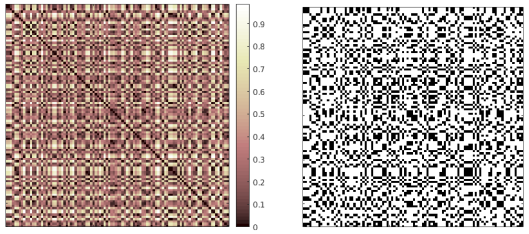
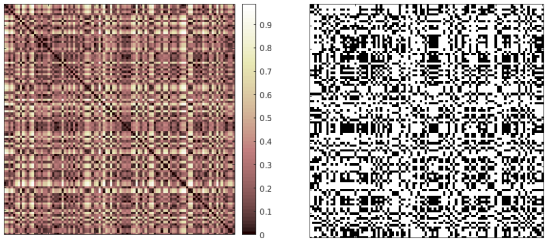
Updates README.md

diff --git a/main.m b/main.m
@@ -5,19 +5,50 @@
 %   plotrp.m
 %
 
-%% Distance matrix and recurrence plot for one time series
+%% Distance matrix and recurrence plot for a sinusoidal time series
+close all
+clear
+clc
+
+X = sin(2*pi*0.05*(1:100));
+
+DMofX = distmatrix(2, 3, 'L1', X);
+RPofX = recplot(2, 3, 0.2, 'L1', X);
+
+figure()
+plot(X)
+ylabel("x(t)")
+xlabel("t")
+xlim([1, 100])
+set(gca, "XTick", [1, 10:10:100])
+set(gcf, "Position", [400, 250, 600, 120]);
+
+figure()
+plotrp(DMofX)
+
+figure()
+plotrp(RPofX)
+
+%% Distance matrix and recurrence plot for a random time series
 close all
 clear
 clc
 
 X = rand(100, 1);
 
-DMofX = distmatrix(1, 1, 'Linf', X);
-RPofX = recplot(1, 1, 0.2, 'Linf', X);
+DMofX = distmatrix(1, 1, 'L1', X);
+RPofX = recplot(1, 1, 0.2, 'L1', X);
+
+figure()
+plot(X)
+ylabel("x(t)")
+xlabel("t")
+xlim([1, 100])
+set(gca, "XTick", [1, 10:10:100])
+set(gcf, "Position", [400, 250, 600, 120]);
 
 figure()
 plotrp(DMofX)
-
 
 figure()
 plotrp(RPofX)

diff --git a/README.md b/README.md
@@ -1,7 +1,23 @@
 # Recurrence Analysis
 
-The files in this repository can be used to perform recurrence analysis of time series in MATLAB. With them you can generate the distance matrix (DM) and the recurrence plot (RP). See Figure 1 below. Soon, you will also be able to carry out recurrence quantification analysis (RQA) and recurrence network analysis (RNA).
+The files in this repository can be used to perform recurrence analysis of time series in MATLAB. With them you can generate the distance matrix (DM) and the recurrence plot (RP). Soon, you will also be able to carry out recurrence quantification analysis (RQA) and recurrence network analysis (RNA).
+
+## Recurrence Plot
+
+Here are some examples of distance matrices and recurrence plots, which are obtained from the distance matrices threshold after the application of the threshold. See how beautiful and informative these binary matrices are!
+
+### Stochastic process
 
 ![Distance matrix and recurrence plot of a sequence drawn from the uniform distribution](imgs/img1.png)
 
-**Figure 1** _Distance matrix and recurrence plot of a sequence drawn from the uniform distribution_ U(0,1)_._
+![The sequence drawn from the uniform distribution](imgs/img1_seq.png)
+
+**Figure 1** _Distance matrix and recurrence plot of a sequence drawn from the uniform distribution_ U(0,1)_. In this example, the embedding dimension = 1 and the threshold = 0.2._
+
+### Sinusoidal function
+
+![Distance matrix and recurrence plot of a sinusoidal function](imgs/img2.png)
+
+![The sinusoidal function](imgs/img2_seq.png)
+
+**Figure 2** _Distance matrix and recurrence plot of a sinusoidal function given by_ x(t) = sin(2\*pi\*0.05\*t)_. In this example, the embedding dimension = 2, the time delay = 3, and the threshold = 0.2._
